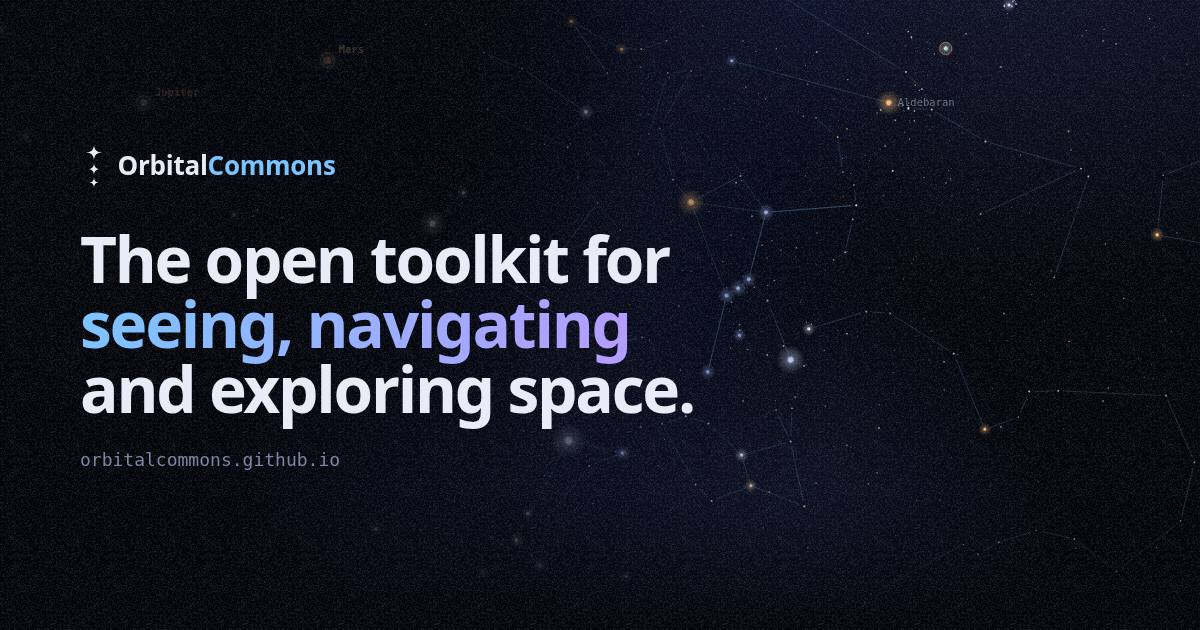
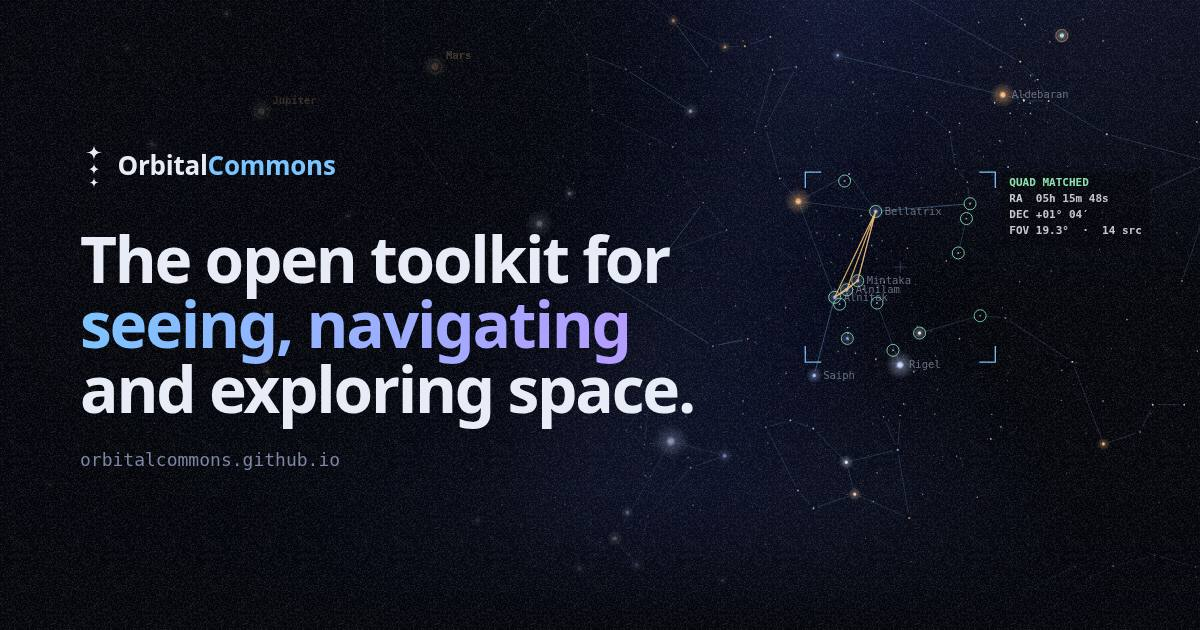
Preserve the star-pattern illustration in the refreshed social card

diff --git a/assets/README.md b/assets/README.md
@@ -82,4 +82,5 @@ node tools/build_project_cards.cjs
 The first command renders the 180-pixel Apple touch icon and the 1200 × 630
 homepage card; the second refreshes the six project cards. Set `CHROME_PATH` for
 a system Chrome or `SITE_URL` for a different local preview address. The
-homepage card fixes `Math.random` at 0.35 and requests reduced motion.
+homepage card fixes `Math.random` at 0.35 and captures the illustrative quad
+after 9.6 seconds of animation.
